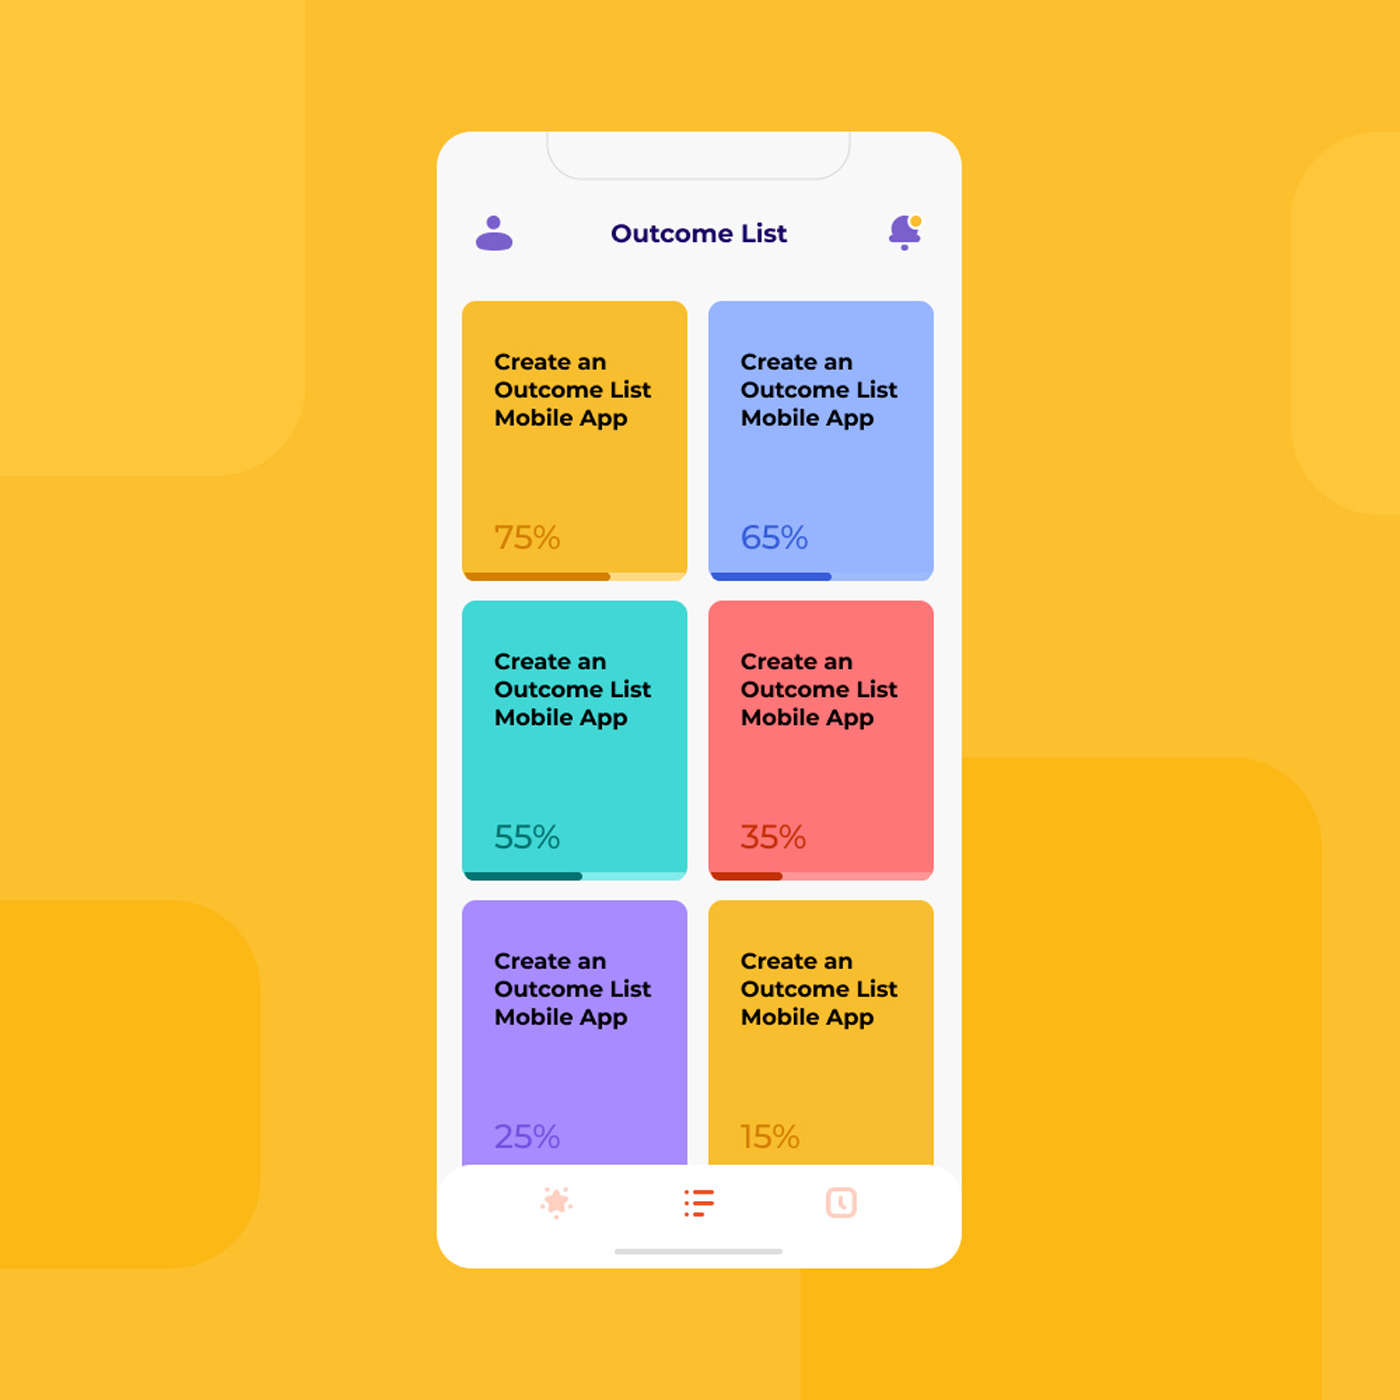
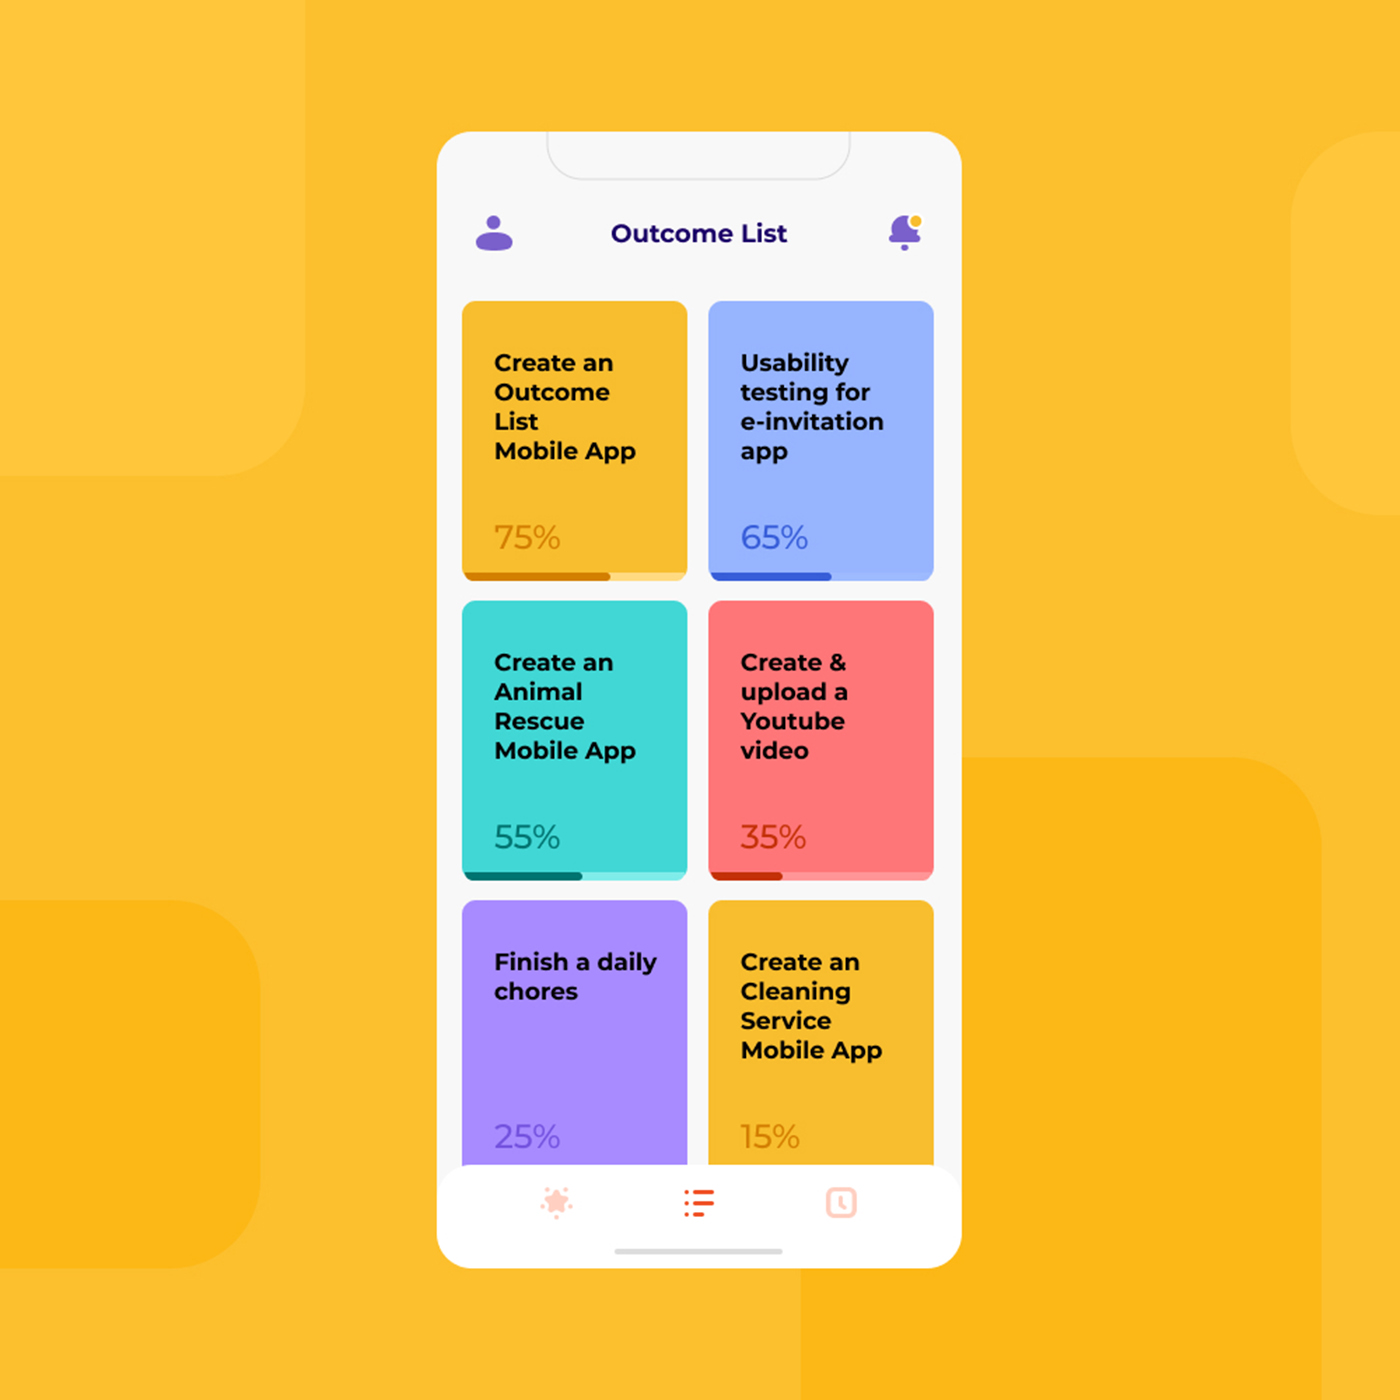
kalaweit

diff --git a/public/engine/pages_work/kalaweit.md b/public/engine/pages_work/kalaweit.md
@@ -1,0 +1,9 @@
+<p class="type">EXPLORATION</p>
+
+# Kalaweit
+
+<p class="meta">Design  /  Monday, September 28, 2020 9:22:00pm</p>
+
+Mobile App redesign for information of animal rescues in Borneo.
+
+![Kalaweit](../assets/images/works/details/254-kalaweit/kalaweit.jpg)
